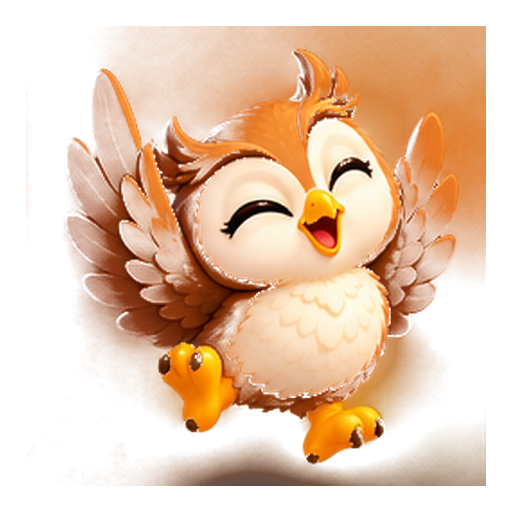
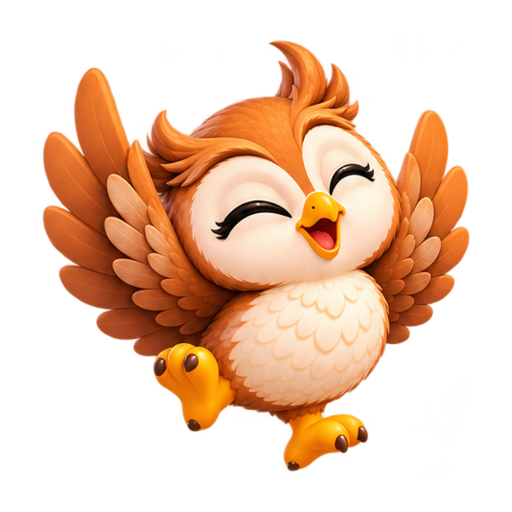
Restore clean transparent owl mascot cutouts

diff --git a/public/math-adventure.js b/public/math-adventure.js
@@ -185,7 +185,7 @@ function renderApples(){
  area.append(existing,basket,receiver,orchard,counter,hint);update();
 }
 function celebrateLevel(){
- const panel=$("result");let stage=panel.querySelector(".level-celebration");if(!stage){stage=document.createElement("div");stage.className="level-celebration";stage.setAttribute("aria-hidden","true");const owl=document.createElement("img");owl.className="celebration-owl";owl.src="/assets/owl-mascot-pack/owl-celebrate.png";owl.alt="";stage.append(owl);for(let i=0;i<18;i++){const spark=document.createElement("span");spark.className="celebration-spark";spark.style.setProperty("--i",String(i));spark.style.setProperty("--angle",(i*137.5)+"deg");spark.style.setProperty("--distance",(70+i%4*18)+"px");spark.textContent=["✦","★","✳","✧"][i%4];stage.append(spark)}panel.insertBefore(stage,$("resultTitle"));}
+ const panel=$("result");let stage=panel.querySelector(".level-celebration");if(!stage){stage=document.createElement("div");stage.className="level-celebration";stage.setAttribute("aria-hidden","true");const owl=document.createElement("img");owl.className="celebration-owl";owl.src="/assets/owl-mascot-pack/owl-celebrate.png?v=20261106-cutout";owl.alt="";stage.append(owl);for(let i=0;i<18;i++){const spark=document.createElement("span");spark.className="celebration-spark";spark.style.setProperty("--i",String(i));spark.style.setProperty("--angle",(i*137.5)+"deg");spark.style.setProperty("--distance",(70+i%4*18)+"px");spark.textContent=["✦","★","✳","✧"][i%4];stage.append(spark)}panel.insertBefore(stage,$("resultTitle"));}
  stage.classList.remove("celebration-play");void stage.offsetWidth;stage.classList.add("celebration-play");
 }
 function finishApples(){

diff --git a/public/adventure/runner.js b/public/adventure/runner.js
@@ -54,7 +54,7 @@
       };
       root.AdventureMechanics[task.mechanic](ctx);
       const tools = el('div', 'ag-tools');
-      const helper = el('img', 'ag-helper'); helper.src = '/assets/owl-mascot-pack/owl-teacher.png'; helper.alt = 'Совёнок-помощник';
+      const helper = el('img', 'ag-helper'); helper.src = '/assets/owl-mascot-pack/owl-teacher.png?v=20261106-cutout'; helper.alt = 'Совёнок-помощник';
       const hint = button('💡 Подсказка', () => say(hintText()), 'ag-hint'); hint.dataset.action = 'hint';
       const reset = button('↺ Начать заново', () => render(), 'ag-reset'); reset.dataset.action = 'reset';
       // Leaving is available even after solving; it never awards an unfinished game.

diff --git a/public/math-adventure.html b/public/math-adventure.html
@@ -229,6 +229,6 @@ body>.path-choice.path-flying{position:fixed;z-index:9999;pointer-events:none;ma
 <script src="/adventure/catalog.js?v=20261106"></script>
 <script src="/adventure/mechanics-basic.js?v=20261106"></script>
 <script src="/adventure/mechanics-advanced.js?v=20261106"></script>
-<script src="/adventure/runner.js?v=20261106"></script>
+<script src="/adventure/runner.js?v=20261106-cutouts"></script>
 <script src="/adventure/map-layouts.js?v=20261106-platforms"></script>
-<script src="/math-adventure.js?v=20261106-platforms"></script></body></html>
+<script src="/math-adventure.js?v=20261106-cutouts"></script></body></html>

diff --git a/docs/superpowers/specs/2026-11-06-owl-cutouts-design.md b/docs/superpowers/specs/2026-11-06-owl-cutouts-design.md
@@ -1,0 +1,9 @@
+# Clean transparent mascot assets
+
+The user confirmed that the problem is unwanted background around characters/images, not the illustrated map scenes. Auditing the owl pack on coloured backgrounds found that 24 named 512px PNGs retained brown/grey rectangles and fragments of neighbouring sprites despite having alpha channels.
+
+Restore all 24 named poses using image editing with genuine transparency, preserve the mascot identity/poses/accessories, repair cropped outlines, and export one complete owl per existing 512px asset path. The source atlas is only an editing/export intermediate outside the repository. Keep the existing map mascot cutout and full-scene backgrounds intact. No CSS masking or blending that would conceal the defect on only one background colour.
+
+Check every cutout on light and dark backgrounds and inspect feather/accessory edges. Verify transparency in browser canvas and the actual helper/celebration UI, missing-image/console health, mobile/desktop layout, and existing game/progress behavior. Cache-bust the changed live assets so merged changes replace cached images.
+
+Verification: the alpha browser regression failed against the original images and passed after restoration. All 24 served assets pass dimension, transparent-padding and visible-content checks. Mobile/desktop helper, mobile celebration and the full light/dark gallery were visually inspected. `npm test` passed 339 tests; `test:adventure-levels` passed all 470 rounds. Independent visual/code review approved the cutouts and reran the alpha browser check successfully. Existing dashboard character cutouts were also inspected and were already clean; full-scene illustrations are intentionally opaque.

diff --git a/public/assets/owl-mascot-pack/README.md b/public/assets/owl-mascot-pack/README.md
@@ -1,0 +1,9 @@
+# Owl mascot cutouts
+
+The 24 named `owl-*.png` poses are 512×512 transparent PNGs. They are complete, isolated characters with safe transparent padding; brown/grey backgrounds and neighbouring sprite fragments were removed by restoring the supplied artwork with image editing. Poses and accessories retain their original purpose.
+
+The restored atlases were exported into individual sprites, framed consistently, and stripped of intermediate metadata. Editing references and intermediate atlases are not runtime assets and are not included here. The larger `file_0000000067bc821099b46abef82451ed.png` remains the existing map mascot.
+
+Use normal alpha compositing, without blend modes or coloured background masks. When replacing a live pose, update its URL version and the referring script version to invalidate browser caches.
+
+Run `npm run test:owl-assets` to check the served images' dimensions, transparent padding, alpha coverage, and live helper/celebration rendering. It also produces a light/dark gallery outside the repository for visual inspection.
